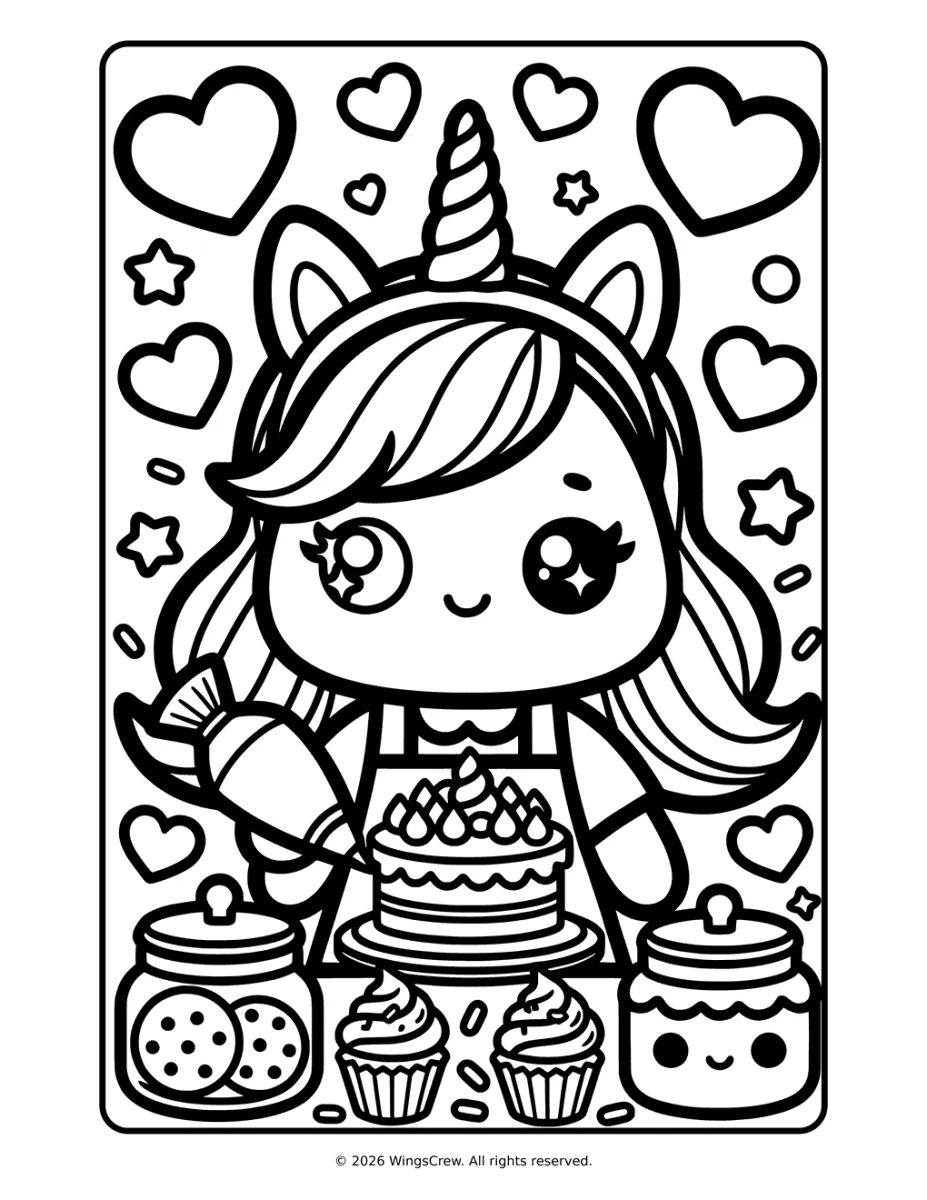
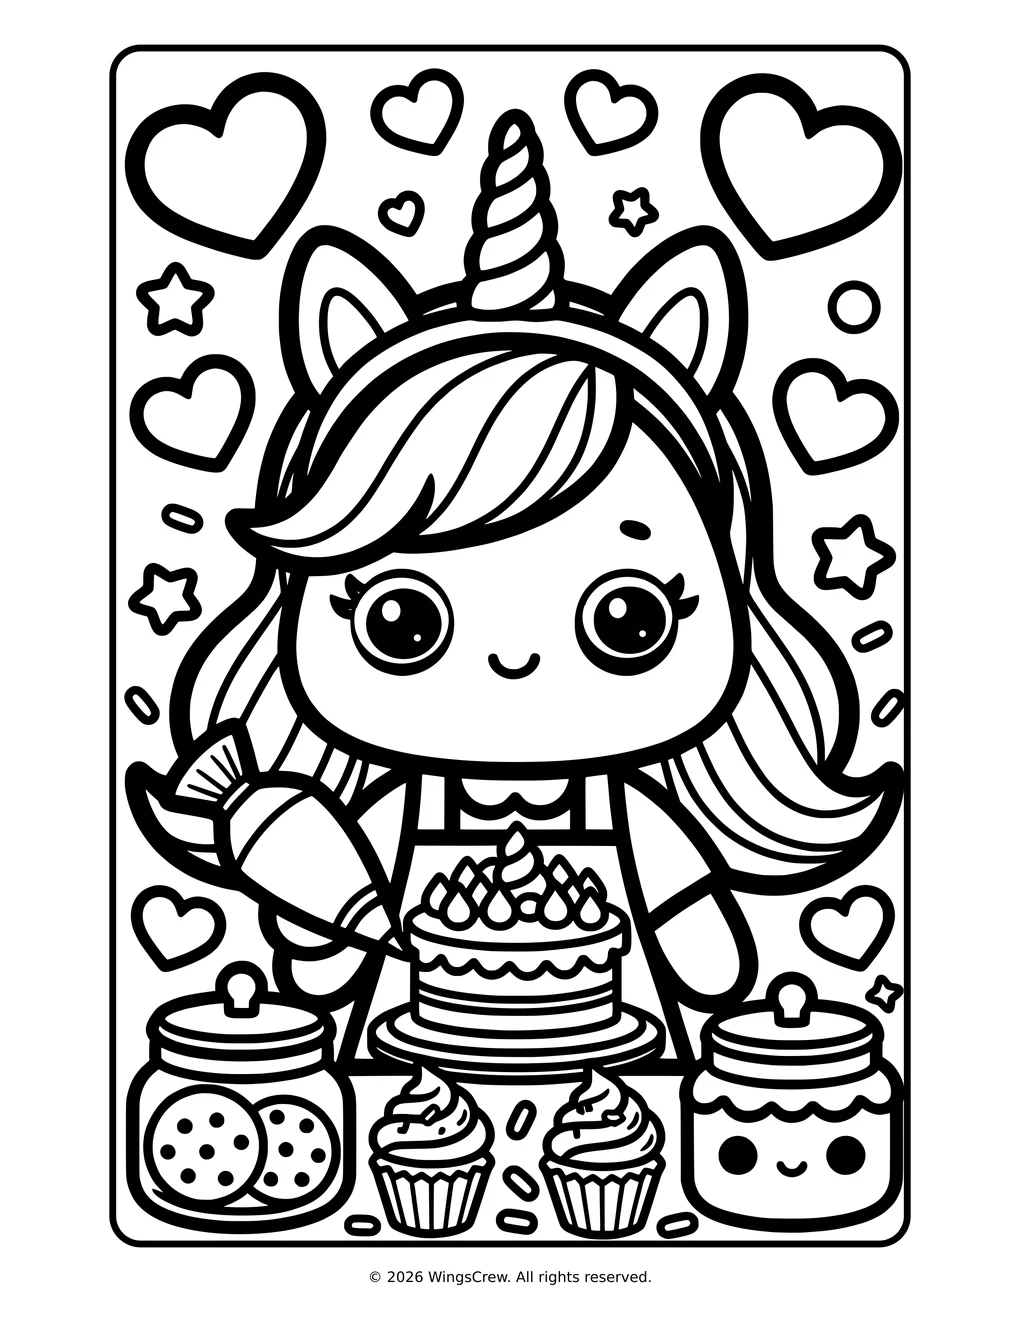
Replace Cute Unicorns pages 6 and 23 with the eye-fixed art. (#53)
File names stay p06_a.webp and p23_a.webp. Those pages use version 1 so the Hot or Not review loads them with ?v=1.

Changed region(s): [[0.3323, 0.4317, 0.4531, 0.5242], [0.5739, 0.4317, 0.6645, 0.5242]]

diff --git a/assets/coloring-sets.js b/assets/coloring-sets.js
@@ -90,6 +90,7 @@
         2: { badge: "NEW", poses: true },
         4: { badge: "NEW" },
         5: { badge: "NEW", poses: true },
+        6: { version: 1 },
         7: { badge: "NEW" },
         8: { poses: true },
         9: { poses: true },
@@ -99,6 +100,7 @@
         16: { badge: "NEW" },
         20: { poses: true },
         22: { poses: true },
+        23: { version: 1 },
         24: { badge: "NEW", poses: true },
         25: { badge: "NEW" },
         26: { poses: true },
